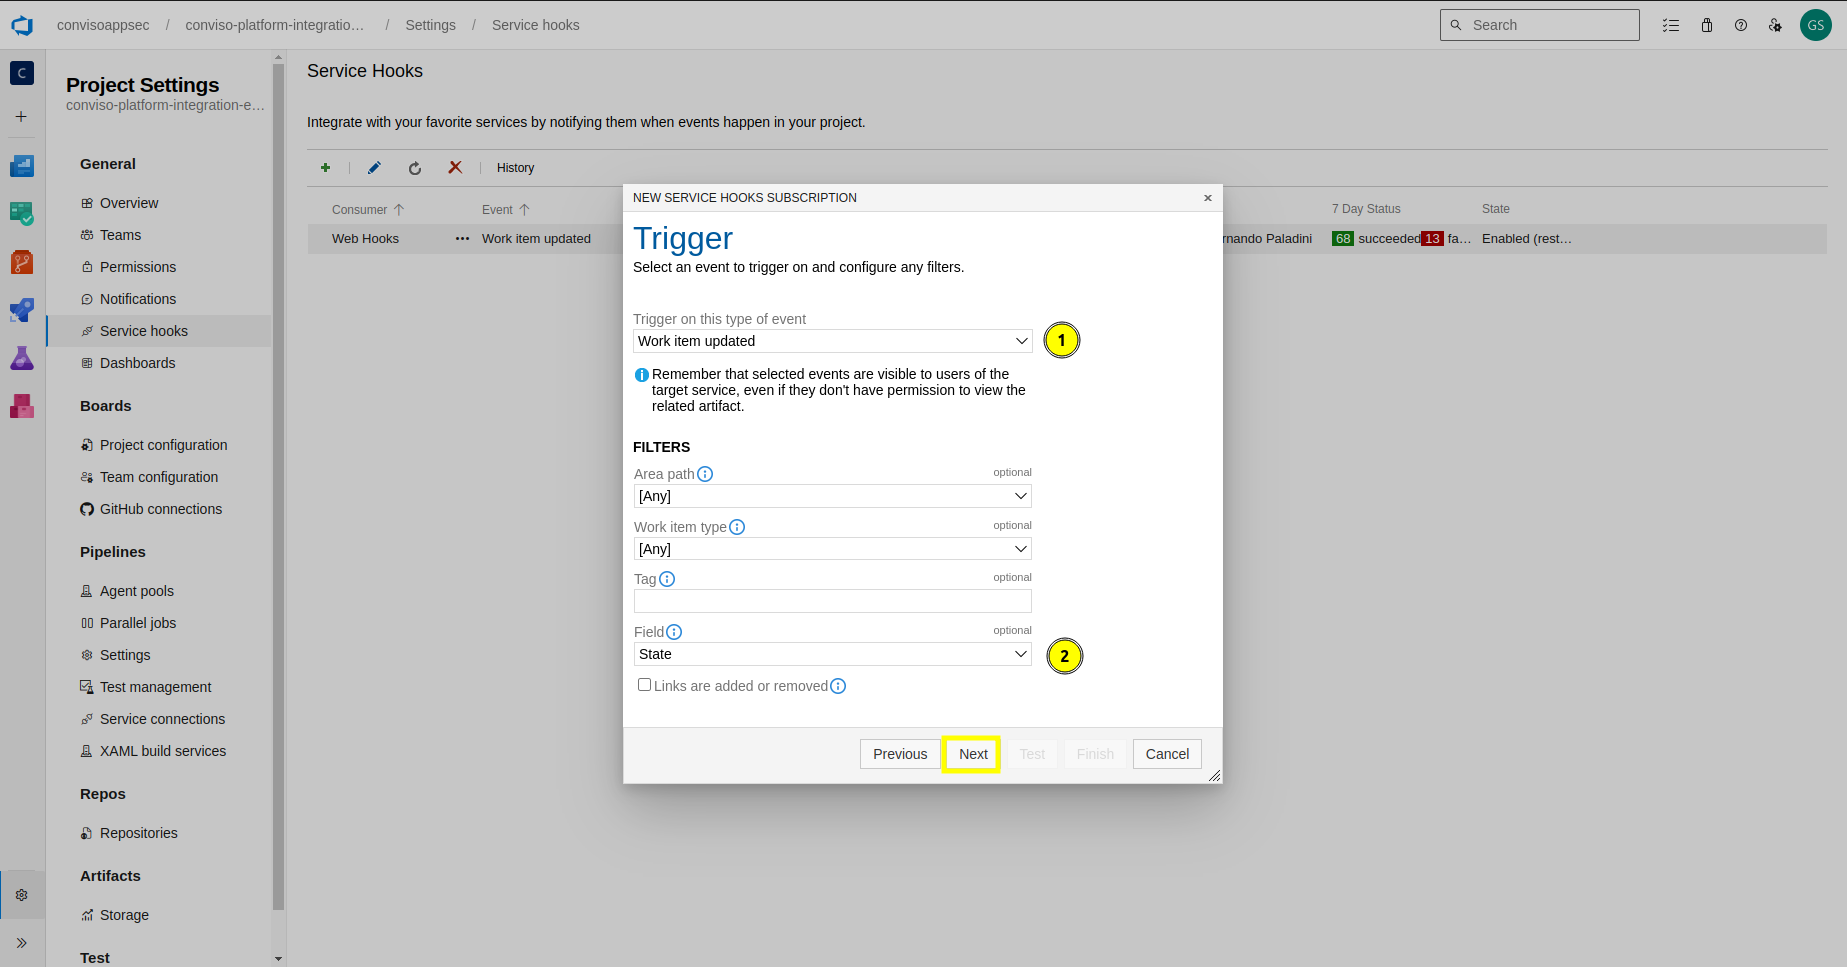
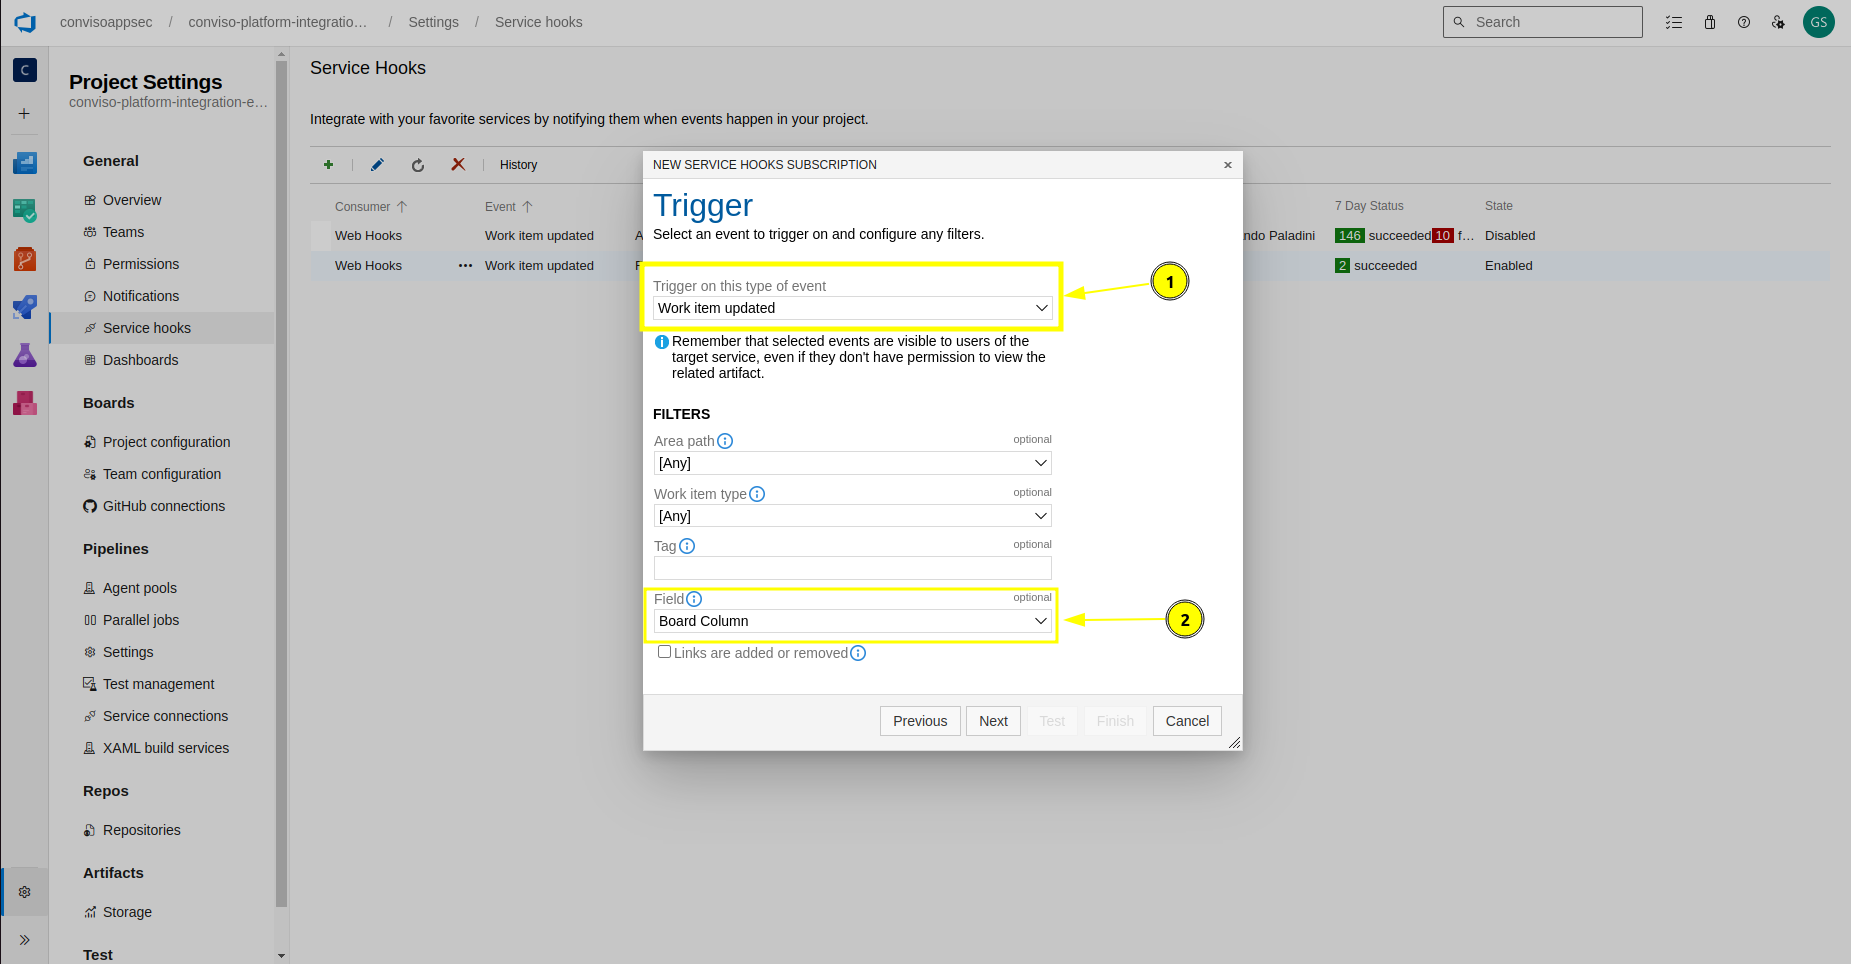
adds integration images and text improvements

diff --git a/docs/integrations/azure-boards.md b/docs/integrations/azure-boards.md
@@ -12,7 +12,7 @@
 
 ## Introduction[](https://docs.convisoappsec.com/integrations/azure_boards/#introduction)
 
-The [Conviso Platform](https://cta-service-cms2.hubspot.com/web-interactives/public/v1/track/redirect?encryptedPayload=AVxigLKtcWzoFbzpyImNNQsXC9S54LjJuklwM39zNd7hvSoR%2FVTX%2FXjNdqdcIIDaZwGiNwYii5hXwRR06puch8xINMyL3EXxTMuSG8Le9if9juV3u%2F%2BX%2FCKsCZN1tLpW39gGnNpiLedq%2BrrfmYxgh8G%2BTcRBEWaKasQ%3D&webInteractiveContentId=125788977029&portalId=5613826&__hstc=36751231.4f0e20f0cfb8e070ca47855aa5207464.1713288582555.1713795830588.1713802784475.4&__hssc=36751231.3.1713802784475&__hsfp=202023877)integrates with [Azure Boards](https://azure.microsoft.com/en-us/products/devops/boards) enabling the creation of issues and a Webhook for updating issue status.
+The [Conviso Platform](https://cta-service-cms2.hubspot.com/web-interactives/public/v1/track/redirect?encryptedPayload=AVxigLKtcWzoFbzpyImNNQsXC9S54LjJuklwM39zNd7hvSoR%2FVTX%2FXjNdqdcIIDaZwGiNwYii5hXwRR06puch8xINMyL3EXxTMuSG8Le9if9juV3u%2F%2BX%2FCKsCZN1tLpW39gGnNpiLedq%2BrrfmYxgh8G%2BTcRBEWaKasQ%3D&webInteractiveContentId=125788977029&portalId=5613826&__hstc=36751231.4f0e20f0cfb8e070ca47855aa5207464.1713288582555.1713795830588.1713802784475.4&__hssc=36751231.3.1713802784475&__hsfp=202023877) integrates with [Azure Boards](https://azure.microsoft.com/en-us/products/devops/boards) enabling the creation of issues and a Webhook for updating issue status.
 
 
 
@@ -50,11 +50,11 @@ To set up the integration, you'll need the following information:
 
 To seamlessly integrate Conviso Platform with Azure Boards, follow these step-by-step procedures:
 
-**[1 - Configure the integration between Conviso Platform and AzureBoards](#configure-the-integration-between-conviso-platform-and-azure-boards)
+[1 - Configure the integration between Conviso Platform and AzureBoards](#configure-the-integration-between-conviso-platform-and-azure-boards)
 
-**[2 - Synchronize vulnerability statuses between Conviso Platform and Azure Boards using Webhooks](#synchronize-vulnerability-statuses-between-conviso-platform-and-azure-boards-using-webhooks)
+[2 - Synchronize vulnerability statuses between Conviso Platform and Azure Boards using Webhooks](#synchronize-vulnerability-statuses-between-conviso-platform-and-azure-boards-using-webhooks)
 
-**[3 - Check integration status](#check-integration-status)
+[3 - Check integration status](#check-integration-status)
 
 ## Configure the integration between Conviso Platform and Azure Boards
 
@@ -106,7 +106,7 @@ Follow the instructions below to complete the integration setup.
 
 
 
-If you don't know your **Organization Name**, there's no problem, you can get it by logging in your **Azure Boards's** account, it show in the page and the url
+If you don't know your **Organization Name**, there's no problem, you can get it by logging in your **Azure Boards's** account, it shows in the page and in the url
 
 <div style={{textAlign: 'center'}}>
 
@@ -123,6 +123,14 @@ If you don't know your **Organization Name**, there's no problem, you can get it
 
 </div>
 
+### Custom Configuration vs Default Configuration
+At this point in the process, you have two options: **Custom Configuration** or **Default Configuration**.
+
+With **Custom Configuration**, you can specifically link a Conviso Platform asset to a single Azure Boards board. On the other hand, Default Configuration enables you to link all available assets under Conviso Platform to a single Azure Boards board by default — providing a standard integration setup.
+
+**Note:** In the event that you have both a custom configuration for a specific asset and a default configuration for the integration, the custom configuration will always take precedence over the default configuration.
+
+### a) Custom Configuration
 
 
 **Step 6 -** Select the **Conviso Platform Asset** you want to associate with your **Azure Boards Project**, **Teams**, **Boards**, and finally **Azure Boards Lane**.
@@ -133,7 +141,15 @@ If you don't know your **Organization Name**, there's no problem, you can get it
 
 </div>
 
+### b) Default Configuration
 
+**Step 6 -** Check the **Default Configuration** field, notice that the Asset label will is no longer available, select the **Azure Boards Project**, **Boards**, and **Lane**.  
+
+<div style={{textAlign: 'center'}}>
+
+![img](../../static/img/azure-boards/default-config.png)
+
+</div>
 
 **Step 7 -** Consider the following in order to map Conviso Platform statuses to Azure Boards statuses: **Identified status (1)** is required to map the vulnerabilities from Conviso Platform to Azure Boards, while **other fields (2)** are optional. After mapping all the statuses, click on the **Add button (3)**.
 
@@ -143,15 +159,9 @@ If you don't know your **Organization Name**, there's no problem, you can get it
 
 </div>
 
-
-
-
-
 ## Synchronize vulnerability statuses between Conviso Platform and Azure Boards using Webhooks
 
 **Step 1 -** Copy and save the **WebHook URL**, you're going to use it in Azure Boards for a future step
-
-
 
 <div style={{textAlign: 'center'}}>
 
@@ -159,11 +169,7 @@ If you don't know your **Organization Name**, there's no problem, you can get it
 
 </div>
 
-
-
 **Step 2 -** In the Project page, go for **Project Settings**, then to **Service hooks(you'll only be able to get here if you're a project admin) ,** and then, click in the add icon
-
-
 
 <div style={{textAlign: 'center'}}>
 
@@ -171,19 +177,13 @@ If you don't know your **Organization Name**, there's no problem, you can get it
 
 </div>
 
-
-
 <div style={{textAlign: 'center'}}>
 
 ![img](../../static/img/azure-boards/azure-service-hooks.png)
 
 </div>
 
-
-
 **Step 3 -** In the service hooks, choose the option **Web Hooks**
-
-
 
 <div style={{textAlign: 'center'}}>
 
@@ -191,11 +191,7 @@ If you don't know your **Organization Name**, there's no problem, you can get it
 
 </div>
 
-
-
-**Step 4 -** Select the Trigger(1) **Work item updated**, and select the **State** option in the Field filter(2)
-
-
+**Step 4 -** Select the Trigger(1) **Work item updated**, and select the **Board Column** option in the Field filter(2)
 
 <div style={{textAlign: 'center'}}>
 
@@ -203,11 +199,7 @@ If you don't know your **Organization Name**, there's no problem, you can get it
 
 </div>
 
-
-
 **Step 5 -** Paste your **WebHook URL** that you got from **Conviso Platform**
-
-
 
 <div style={{textAlign: 'center'}}>
 
@@ -215,13 +207,9 @@ If you don't know your **Organization Name**, there's no problem, you can get it
 
 </div>
 
-
-
 The integration with **Azure Boards** is done and every update in your boards will be updated in **Conviso Platform** as well
 
-
-
-# Check integration status
+## Check integration status
 
 In **Configuration** page, click on the **Check connection (1)** button to verify if the authentication is **working properly (2)**:
 
@@ -230,8 +218,6 @@ In **Configuration** page, click on the **Check connection (1)** button to verif
 ![img](../../static/img/azure-boards/check-connection.png)
 
 </div>
-
-
 
 ## Support[](https://docs.convisoappsec.com/integrations/azure_boards#support)
 

diff --git a/docs/integrations/integrations_intro.md b/docs/integrations/integrations_intro.md
@@ -71,6 +71,7 @@ Unlock the full potential of your data by integrating it into our platform! Expo
 ## Defect/Bug Tracking Integration
 
 By integrating the Conviso Platform with your Defect Tracker tool, you can seamlessly manage and track defects within your development workflow. This streamlines the process of identifying and addressing issues, enhancing collaboration and efficiency. Our platform supports the following Defect Tracker integrations:
+* **[Azure Boards](../integrations/azure-boards.md)**
 * **[Bitbucket](../integrations/bitbucket.md)**
 * **[BusinessMap](../integrations/businessmap.md)**
 * **[ClickUp](../integrations/clickup.md)**
